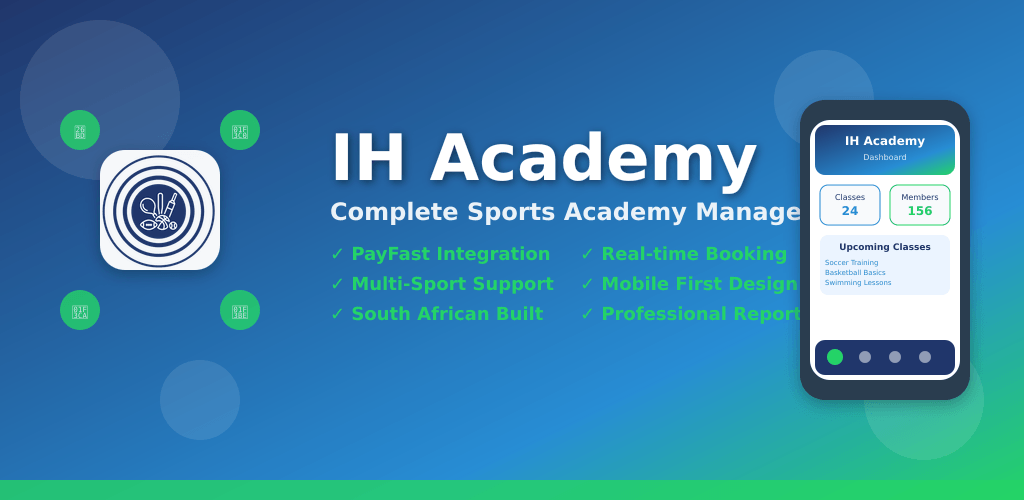
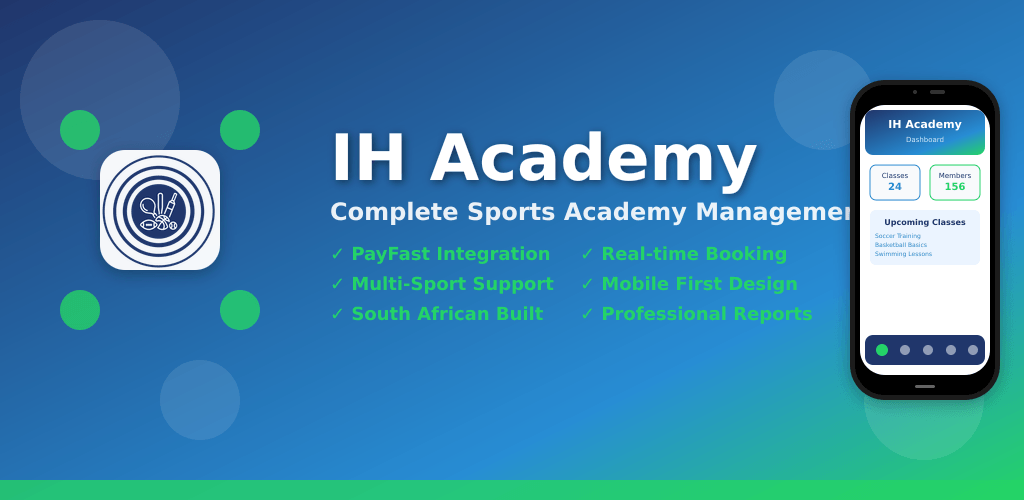
Update feature graphic to improve appearance and visibility of elements
Adjusts the feature graphic by updating the phone mockup and removing text.

Replit-Commit-Author: Agent
Replit-Commit-Session-Id: 34d7432b-c9a9-4643-b6fd-264e02eb9575
Replit-Commit-Screenshot-Url: https://storage.googleapis.com/screenshot-production-us-central1/b9bb3f3a-f8f1-4205-8bf9-e0d028063eee/f9dc67d0-3fc0-4f93-b476-c7f96765bc1a.jpg

diff --git a/mobile/app-store/feature-graphic-with-logo.js b/mobile/app-store/feature-graphic-with-logo.js
@@ -49,19 +49,12 @@ async function createFeatureGraphicWithLogo() {
       <!-- App icon placeholder (will be replaced with actual logo) -->
       <rect x="100" y="150" width="120" height="120" rx="25" fill="white" opacity="0.95" filter="url(#shadow)" id="logo-placeholder"/>
       
-      <!-- Sports icons around logo area -->
+      <!-- Sports icons around logo area (no text) -->
       <g opacity="0.8">
         <circle cx="80" cy="130" r="20" fill="#24D367"/>
-        <text x="80" y="138" font-family="Arial, sans-serif" font-size="16" text-anchor="middle" fill="white">⚽</text>
-        
         <circle cx="240" cy="130" r="20" fill="#24D367"/>
-        <text x="240" y="138" font-family="Arial, sans-serif" font-size="16" text-anchor="middle" fill="white">🏀</text>
-        
         <circle cx="80" cy="310" r="20" fill="#24D367"/>
-        <text x="80" y="318" font-family="Arial, sans-serif" font-size="16" text-anchor="middle" fill="white">🏊</text>
-        
         <circle cx="240" cy="310" r="20" fill="#24D367"/>
-        <text x="240" y="318" font-family="Arial, sans-serif" font-size="16" text-anchor="middle" fill="white">🎾</text>
       </g>
       
       <!-- Main title and content -->
@@ -81,35 +74,55 @@ async function createFeatureGraphicWithLogo() {
         </g>
       </g>
       
-      <!-- Phone mockup -->
-      <g transform="translate(800, 100)">
-        <rect x="0" y="0" width="170" height="300" rx="25" fill="#2C3E50" filter="url(#shadow)"/>
-        <rect x="10" y="20" width="150" height="260" rx="20" fill="white"/>
+      <!-- Realistic iPhone mockup (moved right) -->
+      <g transform="translate(850, 80)">
+        <!-- Phone outer frame with realistic proportions -->
+        <rect x="0" y="0" width="150" height="320" rx="35" fill="#1a1a1a" filter="url(#shadow)"/>
+        
+        <!-- Phone inner bezel -->
+        <rect x="5" y="5" width="140" height="310" rx="30" fill="#000000"/>
+        
+        <!-- Screen area -->
+        <rect x="10" y="25" width="130" height="270" rx="25" fill="white"/>
+        
+        <!-- Notch area -->
+        <rect x="55" y="5" width="40" height="15" rx="7" fill="#000000"/>
+        
+        <!-- Camera and speaker -->
+        <circle cx="65" cy="12" r="2" fill="#333"/>
+        <rect x="80" y="10" width="15" height="4" rx="2" fill="#333"/>
         
         <!-- Phone content -->
-        <rect x="15" y="25" width="140" height="50" rx="10" fill="url(#primaryBg)"/>
-        <text x="85" y="45" font-family="Arial, sans-serif" font-size="12" font-weight="600" text-anchor="middle" fill="white">IH Academy</text>
-        <text x="85" y="60" font-family="Arial, sans-serif" font-size="8" text-anchor="middle" fill="white" opacity="0.8">Dashboard</text>
+        <rect x="15" y="30" width="120" height="45" rx="8" fill="url(#primaryBg)"/>
+        <text x="75" y="48" font-family="Arial, sans-serif" font-size="11" font-weight="600" text-anchor="middle" fill="white">IH Academy</text>
+        <text x="75" y="62" font-family="Arial, sans-serif" font-size="7" text-anchor="middle" fill="white" opacity="0.8">Dashboard</text>
         
-        <rect x="20" y="85" width="60" height="40" rx="8" fill="#F8FAFC" stroke="#278DD4" stroke-width="1"/>
-        <text x="50" y="100" font-family="Arial, sans-serif" font-size="8" text-anchor="middle" fill="#20366B">Classes</text>
-        <text x="50" y="115" font-family="Arial, sans-serif" font-size="12" font-weight="600" text-anchor="middle" fill="#278DD4">24</text>
+        <!-- Dashboard cards -->
+        <rect x="20" y="85" width="50" height="35" rx="6" fill="#F8FAFC" stroke="#278DD4" stroke-width="1"/>
+        <text x="45" y="98" font-family="Arial, sans-serif" font-size="7" text-anchor="middle" fill="#20366B">Classes</text>
+        <text x="45" y="110" font-family="Arial, sans-serif" font-size="10" font-weight="600" text-anchor="middle" fill="#278DD4">24</text>
         
-        <rect x="90" y="85" width="60" height="40" rx="8" fill="#F8FAFC" stroke="#24D367" stroke-width="1"/>
-        <text x="120" y="100" font-family="Arial, sans-serif" font-size="8" text-anchor="middle" fill="#20366B">Members</text>
-        <text x="120" y="115" font-family="Arial, sans-serif" font-size="12" font-weight="600" text-anchor="middle" fill="#24D367">156</text>
+        <rect x="80" y="85" width="50" height="35" rx="6" fill="#F8FAFC" stroke="#24D367" stroke-width="1"/>
+        <text x="105" y="98" font-family="Arial, sans-serif" font-size="7" text-anchor="middle" fill="#20366B">Members</text>
+        <text x="105" y="110" font-family="Arial, sans-serif" font-size="10" font-weight="600" text-anchor="middle" fill="#24D367">156</text>
         
-        <rect x="20" y="135" width="130" height="60" rx="8" fill="#EBF4FF"/>
-        <text x="85" y="150" font-family="Arial, sans-serif" font-size="9" font-weight="600" text-anchor="middle" fill="#20366B">Upcoming Classes</text>
-        <text x="25" y="165" font-family="Arial, sans-serif" font-size="7" fill="#278DD4">Soccer Training</text>
-        <text x="25" y="175" font-family="Arial, sans-serif" font-size="7" fill="#278DD4">Basketball Basics</text>
-        <text x="25" y="185" font-family="Arial, sans-serif" font-size="7" fill="#278DD4">Swimming Lessons</text>
+        <!-- Upcoming classes section -->
+        <rect x="20" y="130" width="110" height="55" rx="6" fill="#EBF4FF"/>
+        <text x="75" y="145" font-family="Arial, sans-serif" font-size="8" font-weight="600" text-anchor="middle" fill="#20366B">Upcoming Classes</text>
+        <text x="25" y="158" font-family="Arial, sans-serif" font-size="6" fill="#278DD4">Soccer Training</text>
+        <text x="25" y="167" font-family="Arial, sans-serif" font-size="6" fill="#278DD4">Basketball Basics</text>
+        <text x="25" y="176" font-family="Arial, sans-serif" font-size="6" fill="#278DD4">Swimming Lessons</text>
         
-        <rect x="15" y="240" width="140" height="35" rx="10" fill="#20366B"/>
-        <circle cx="35" cy="257" r="8" fill="#24D367"/>
-        <circle cx="65" cy="257" r="6" fill="white" opacity="0.5"/>
-        <circle cx="95" cy="257" r="6" fill="white" opacity="0.5"/>
-        <circle cx="125" cy="257" r="6" fill="white" opacity="0.5"/>
+        <!-- Bottom navigation -->
+        <rect x="15" y="255" width="120" height="30" rx="8" fill="#20366B"/>
+        <circle cx="32" cy="270" r="6" fill="#24D367"/>
+        <circle cx="55" cy="270" r="5" fill="white" opacity="0.5"/>
+        <circle cx="78" cy="270" r="5" fill="white" opacity="0.5"/>
+        <circle cx="101" cy="270" r="5" fill="white" opacity="0.5"/>
+        <circle cx="123" cy="270" r="5" fill="white" opacity="0.5"/>
+        
+        <!-- Home indicator -->
+        <rect x="65" y="305" width="20" height="3" rx="1.5" fill="#666"/>
       </g>
       
       <!-- Bottom accent -->
